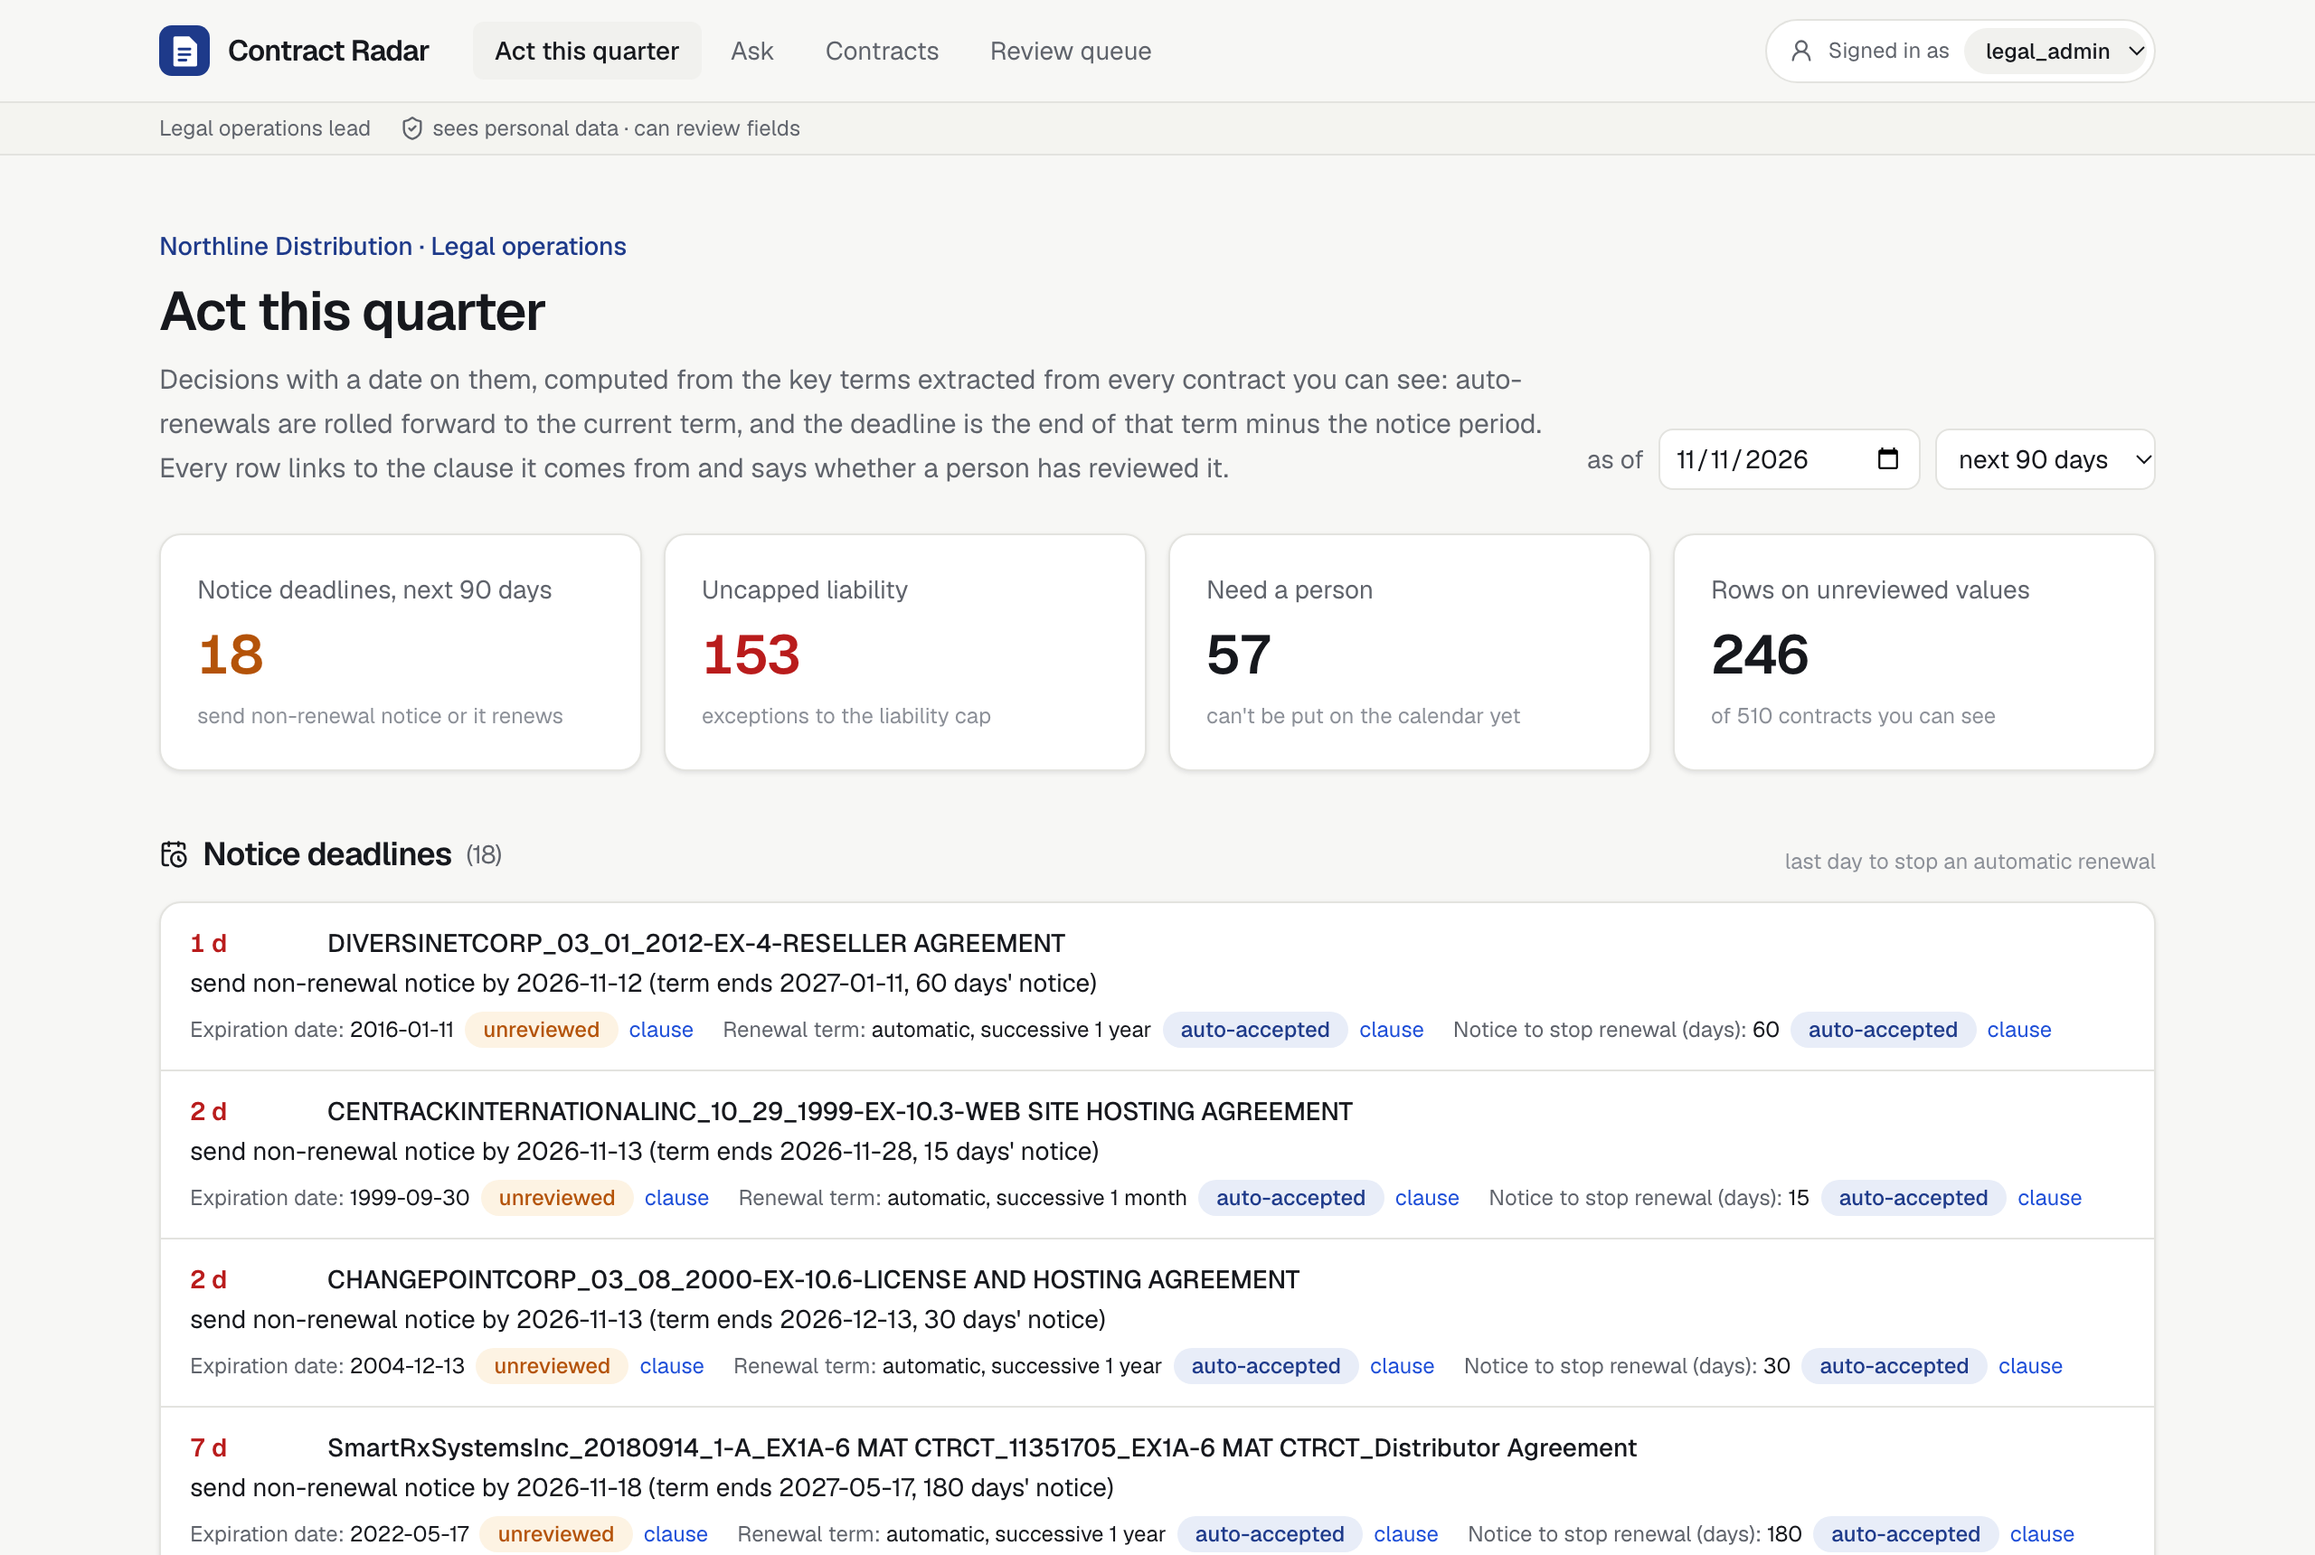
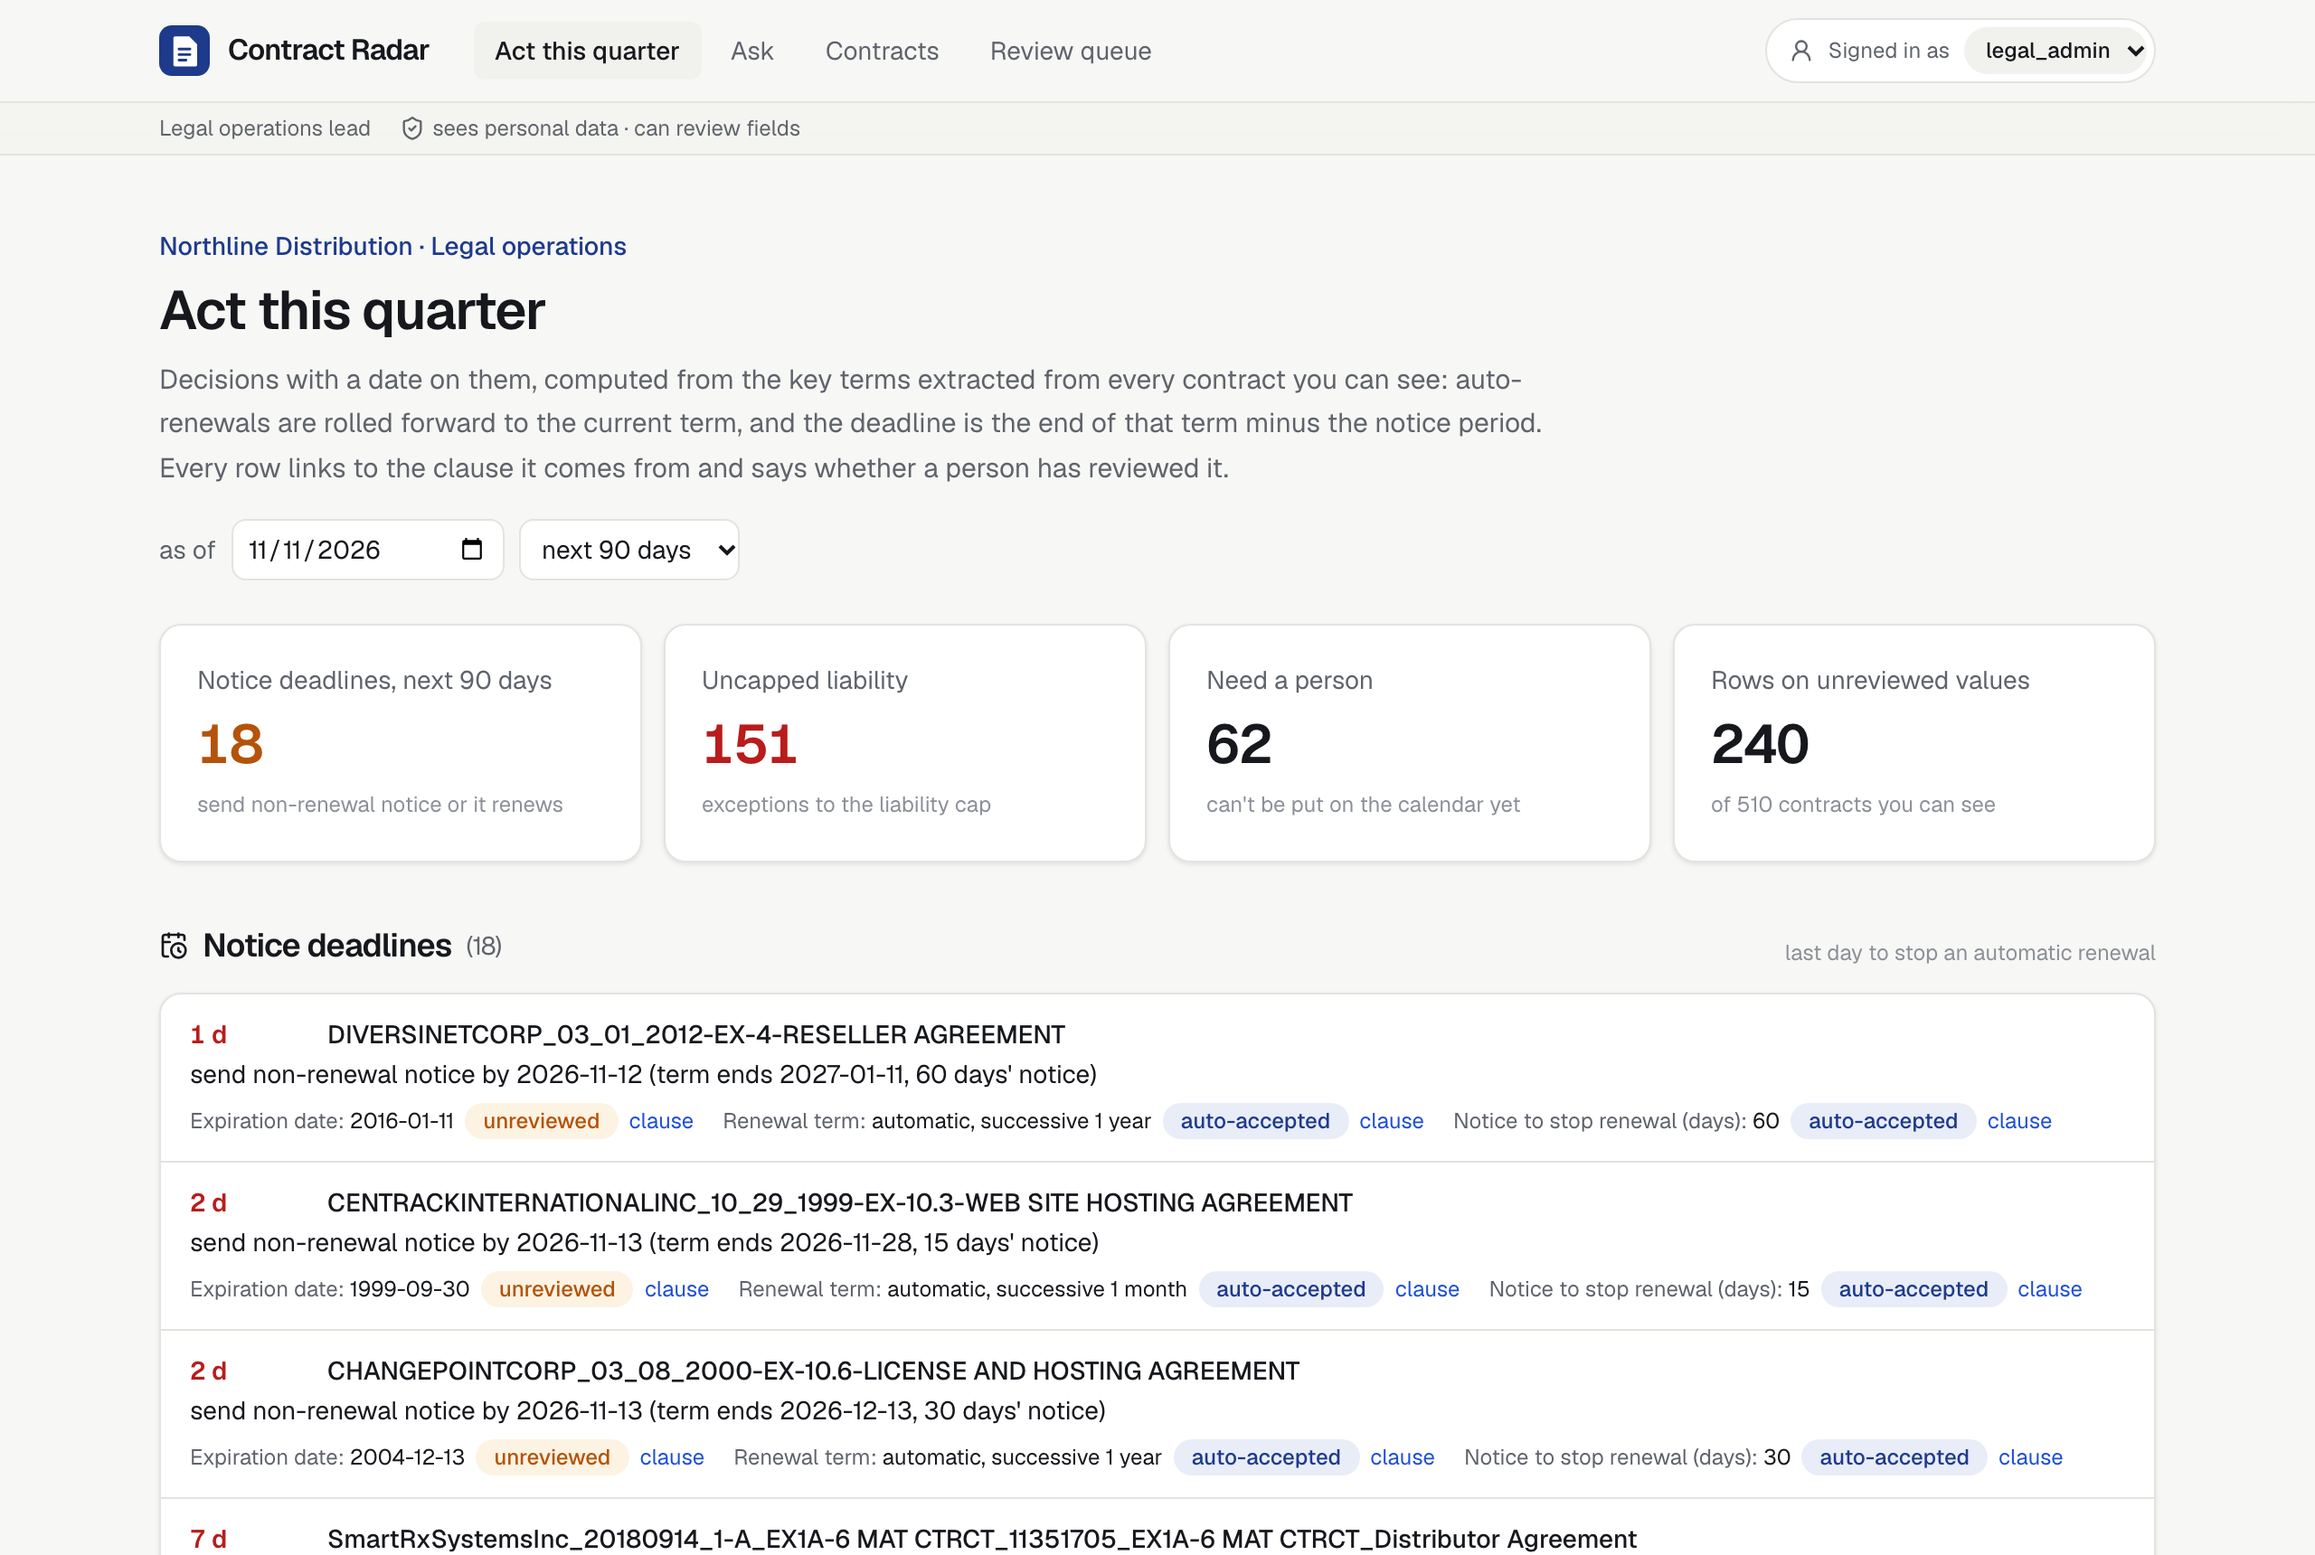
Absent-set consistency over 3 runs (17/20 each, same contracts); Act this quarter screenshot refreshed

diff --git a/DECISIONS.md b/DECISIONS.md
@@ -87,7 +87,8 @@ or overturn a decision are added to the entry.
   CUAD (Pareteum renewal notice; Middlebrook termination for convenience), 1 was run-to-run inconsistency, 1 a real
   over-call (non-exclusive licenses read as exclusivity). Both numbers are reported; labels are never edited.
 - **Open:** latency is above C4 (8 s) on the CLI backend (process start-up per call + long answers): re-measure on the
-  API and cap answer length; run pass^k on the absent set for the inconsistency.
+  API and cap answer length; run pass^k on the absent set for the inconsistency. (Both done in D20: 7.5 s median;
+  pass^3 17/20 raw, identical across runs.)
 
 ## D8. Row-level security in practice: a non-superuser app role, deny by default
 - **Constraint:** C2.
@@ -469,6 +470,10 @@ or overturn a decision are added to the entry.
   `evals/adjudication.json`: 2 CUAD label misses (Pareteum renewal notice, Middlebrook termination for convenience)
   and 1 real over-call (Ingevity: non-exclusive licenses read as exclusivity). Marshall, the inconsistent case in D7,
   came back absent this time.
+- **Consistency (pass^k, closes D7's open item):** the 20 "absent" questions run 3 more times: **17/20 in every
+  run, the same 3 contracts each time** (pass^3 = 17/20 raw, 19/20 adjudicated; Marshall absent 3/3). The
+  remaining errors are systematic, not random: 2 label misses and the Ingevity over-call. Cost: 3 points of the
+  5-hour window, 0 of the week.
 - **Noise:** the two answer misses when the clause exists are both expiration dates; non-compete moved −0.025 on the
   held-out half (54 positives) with no code change, inside the run-to-run swing noted in D18.
 - **Knock-on, Act this quarter (legal_admin, as of 2026-11-11):** notice deadlines 18 (unchanged), uncapped

diff --git a/README.md b/README.md
@@ -24,7 +24,7 @@ when it failed: [DECISIONS.md](DECISIONS.md) (final run: D20).
 | What | Result |
 |---|---|
 | **Retrieval** (5,506 lawyer-labeled clauses, 415 unseen contracts) | the clause in the top 8 for **89.1%** (keyword 68.6% → vector 71.7% → hybrid 74.6% → + reranker 83.9% → + query planning 89.1%) |
-| **Cited answers** (dev, 50 questions) | answered 28/30 when the clause exists; the citation lands on the lawyers' span 26/28; says "not there" 19/20 when it isn't (adjudicated; 17/20 raw); 2/129 unverifiable claims dropped |
+| **Cited answers** (dev, 50 questions) | answered 28/30 when the clause exists; the citation lands on the lawyers' span 26/28; says "not there" 19/20 when it isn't (adjudicated; 17/20 raw, the same in 3 repeat runs); 2/129 unverifiable claims dropped |
 | **Permission leaks** (exact-text attacks on forbidden contracts, every retrieval method) | **0** in 2,129 returned chunks |
 | **Personal data shown to users without access** | **0** in 4,841 served texts (every retrieval path + fetch by id); the app role cannot even select the original column |
 | **Personal-data detector** (fresh labeled sample, never inspected before scoring) | recall 0.91, precision 0.94 (detector v3, D19); emails 1.00, phones 0.96 |
